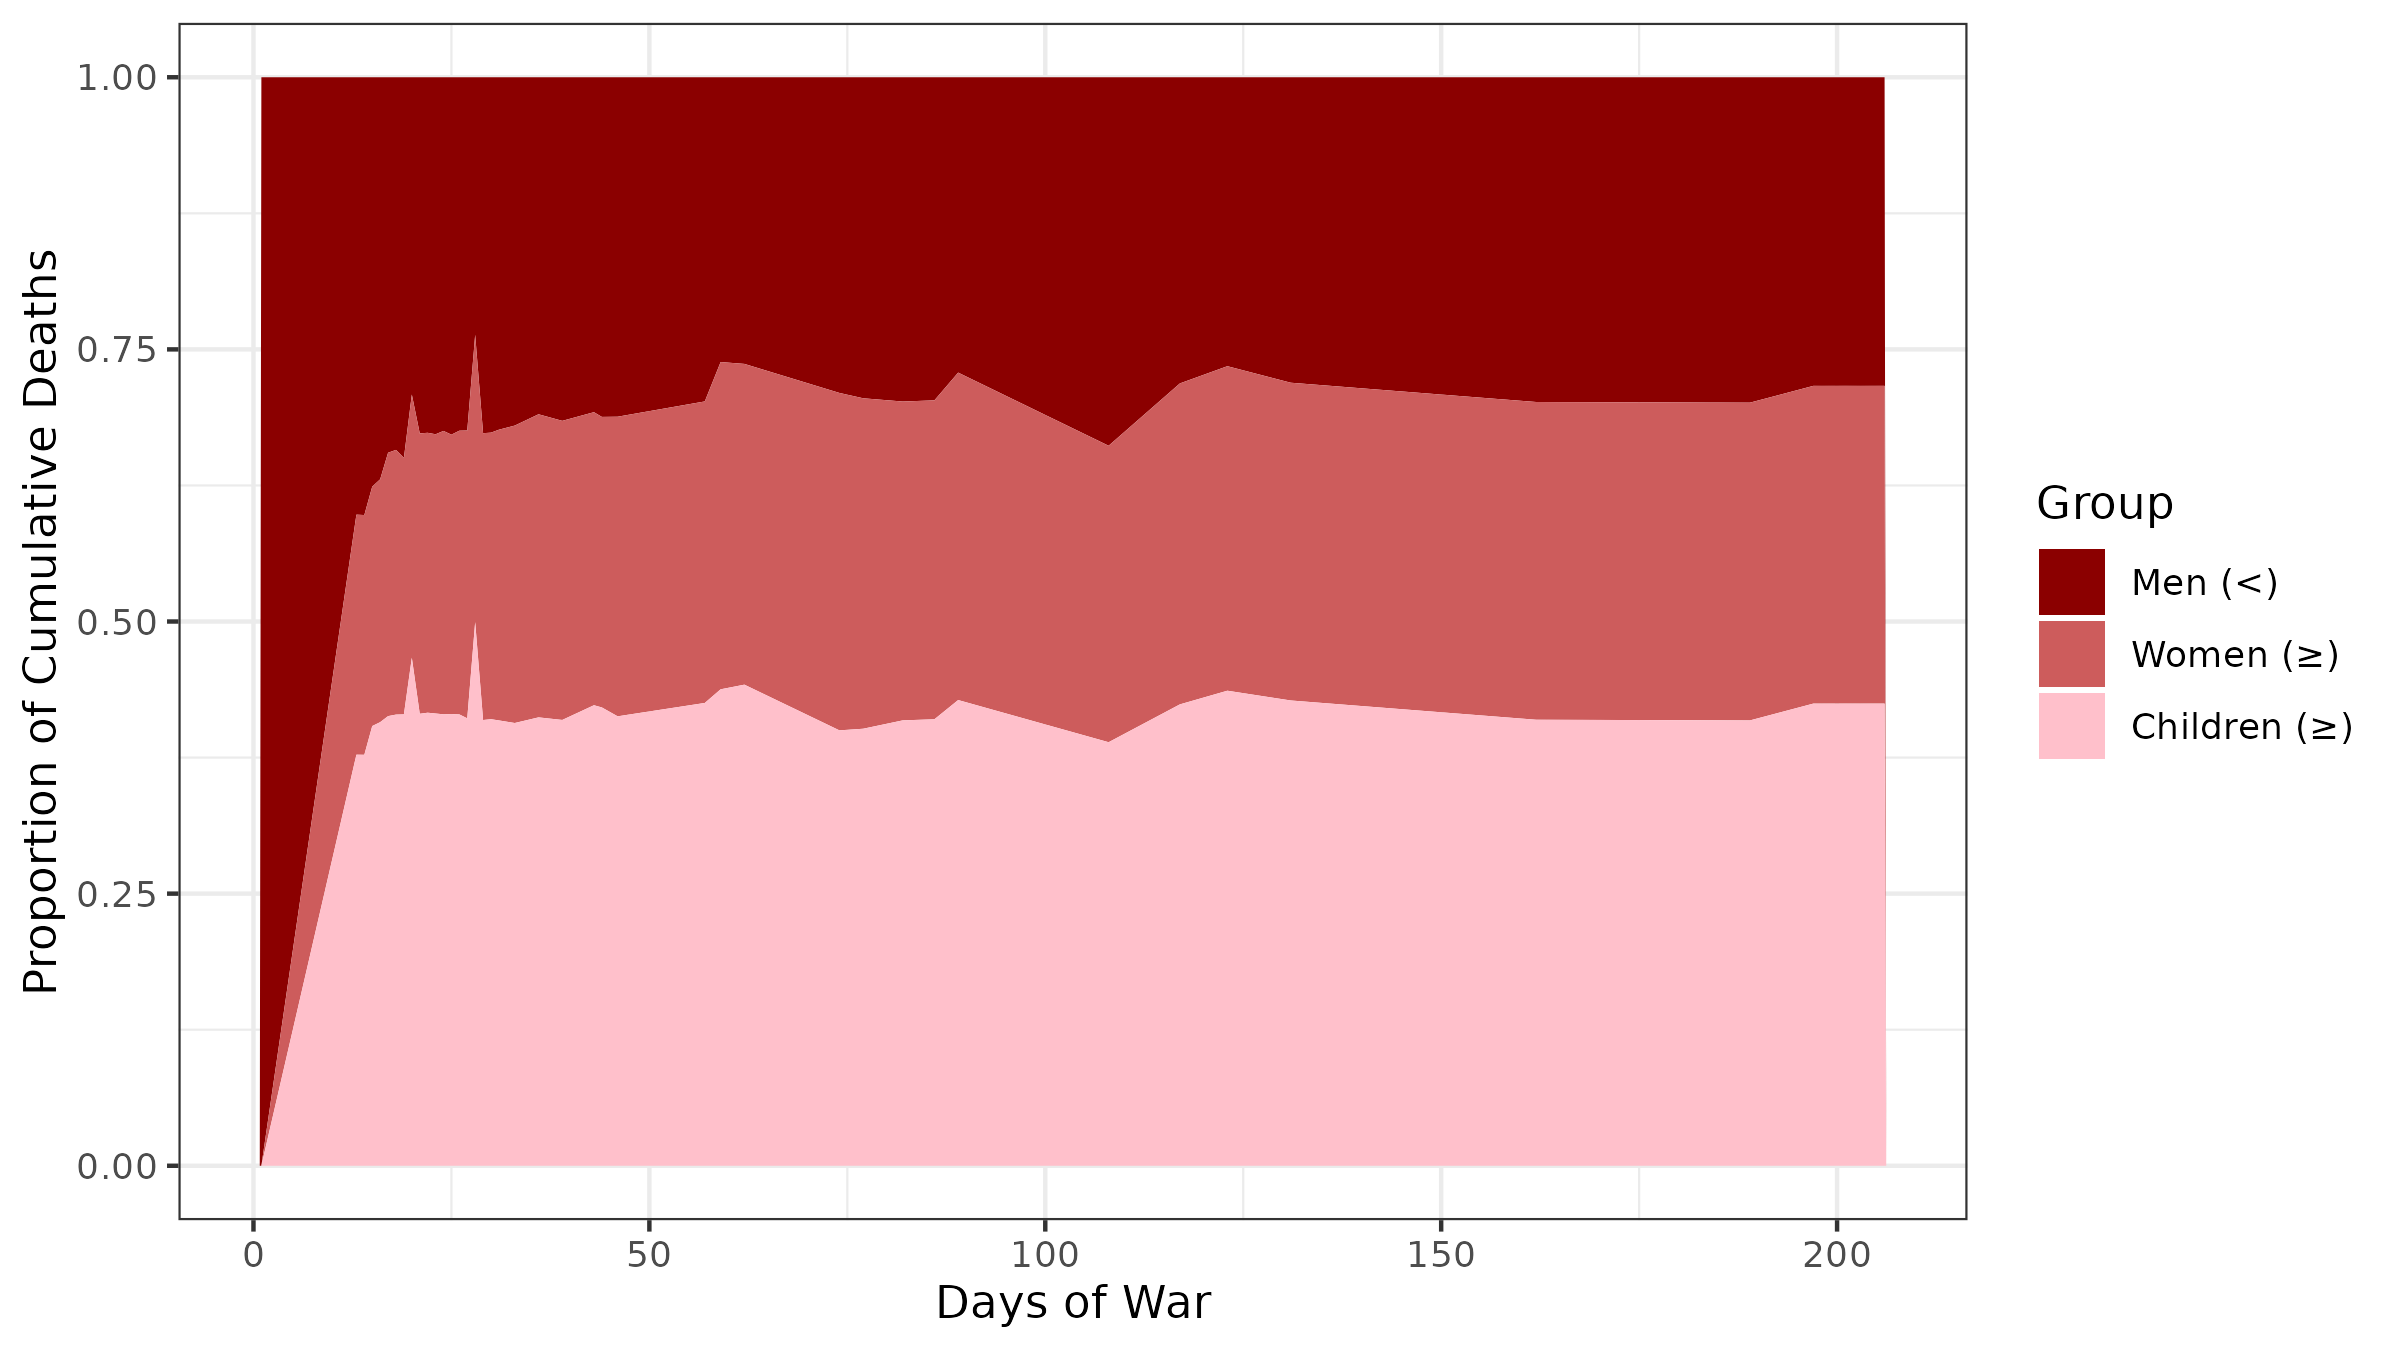
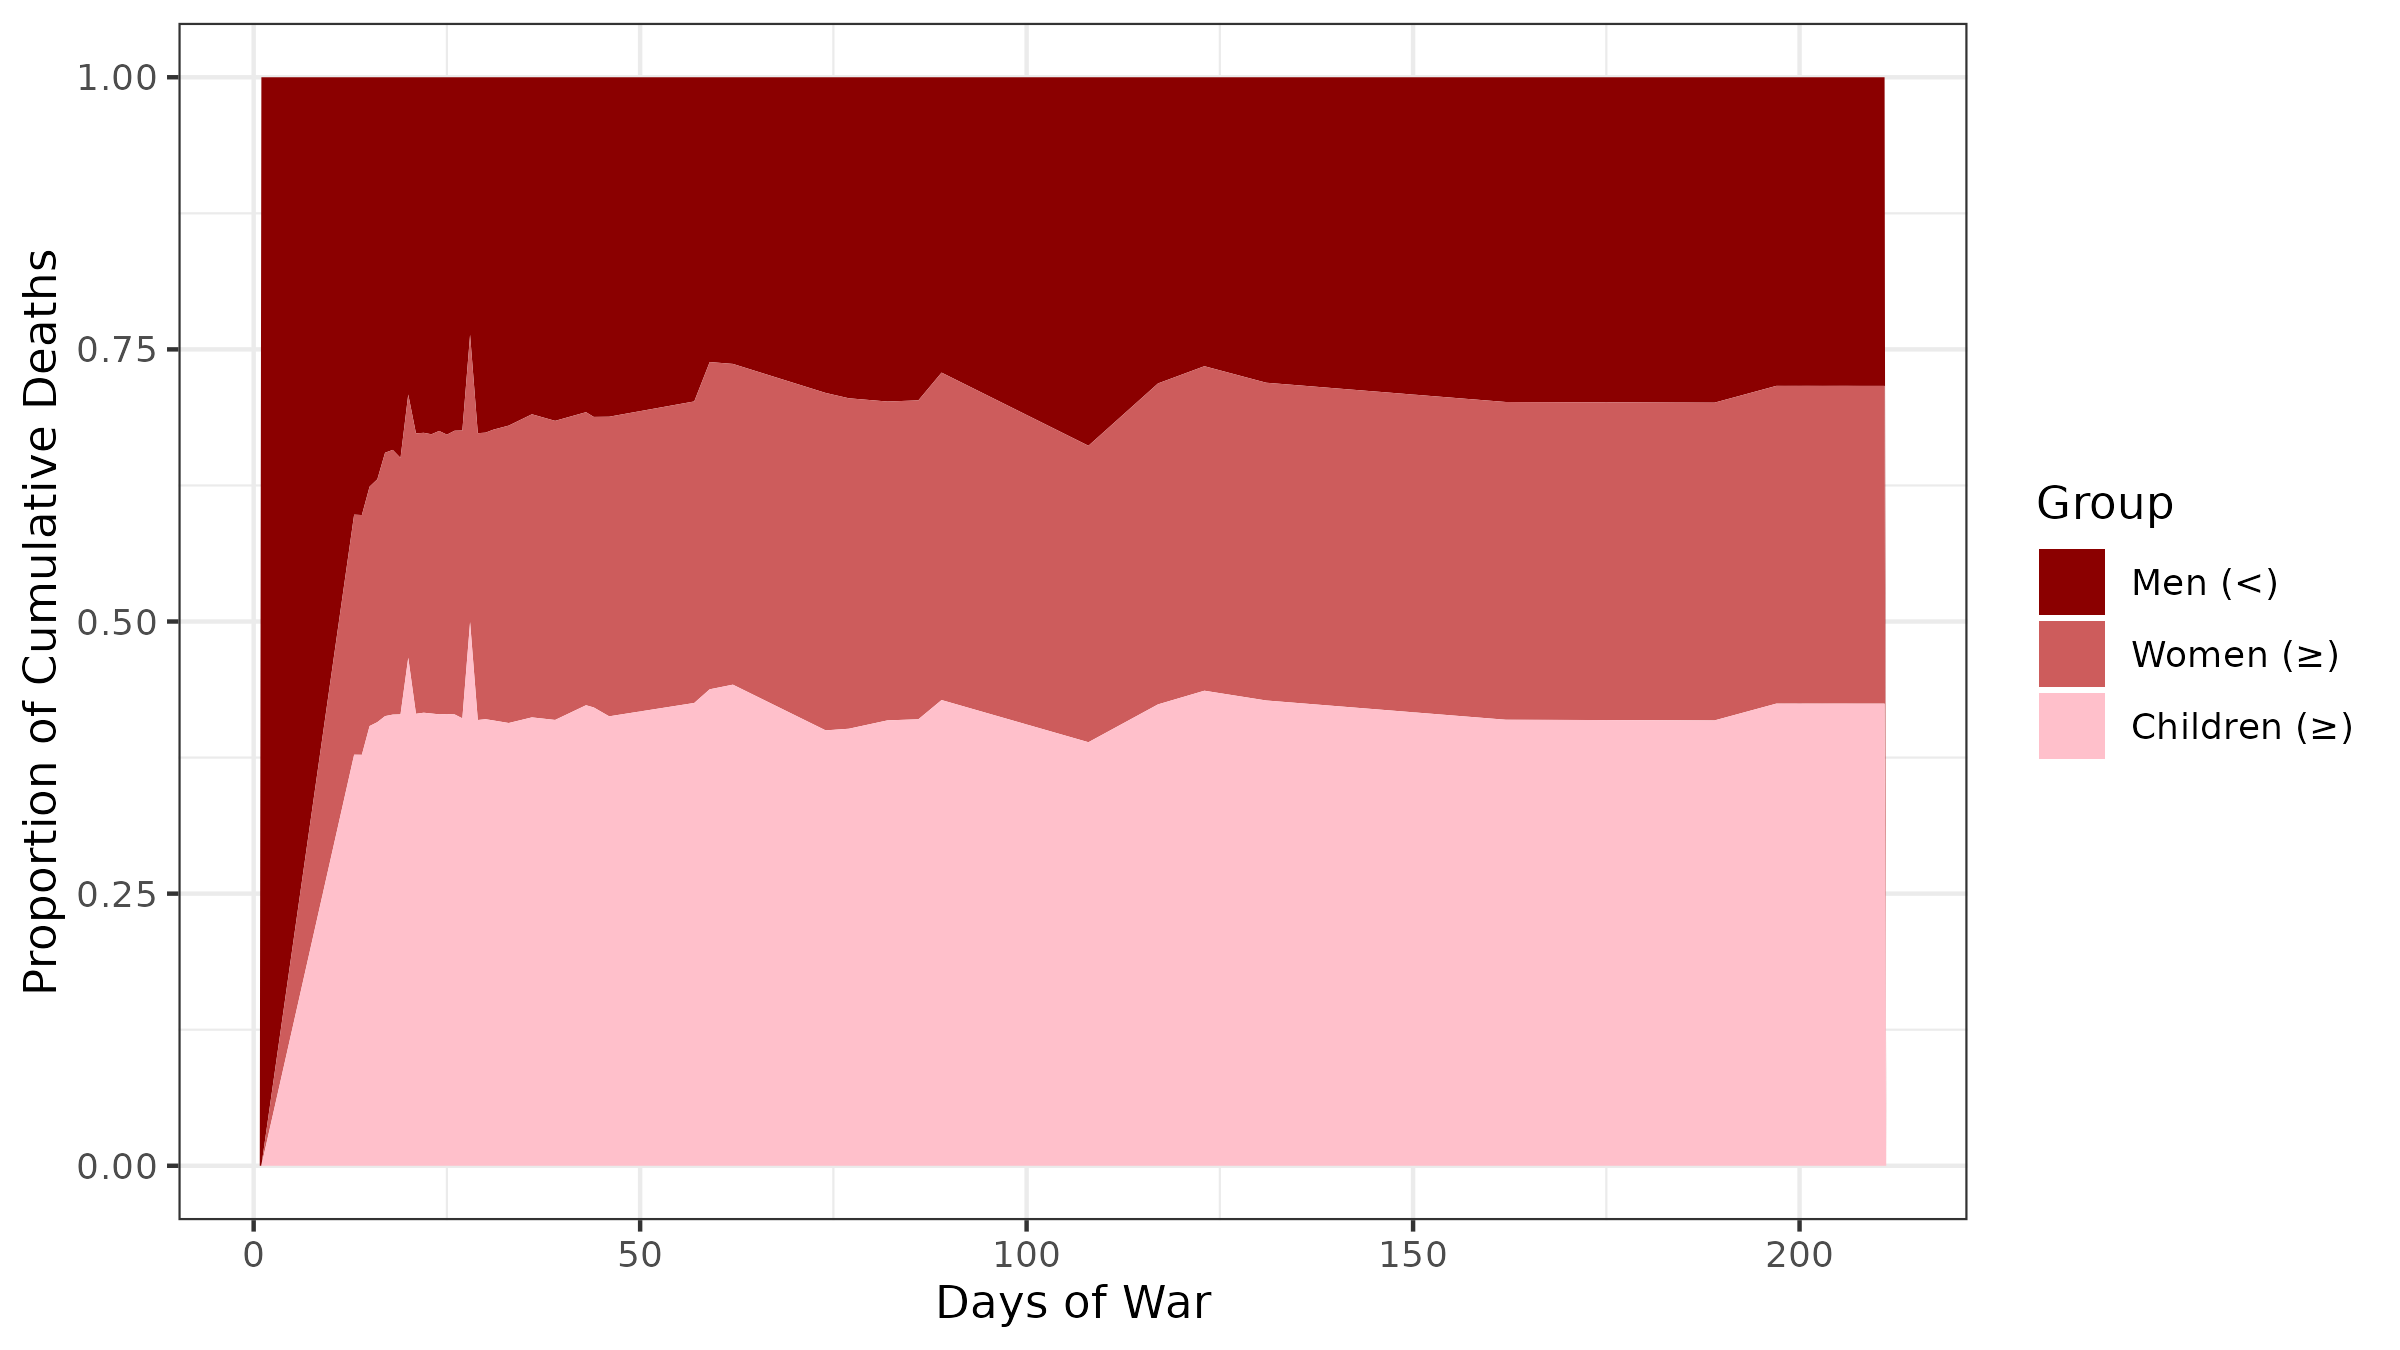
Data updated 06 May 2024

diff --git a/README.md b/README.md
@@ -1,5 +1,5 @@
 Tracking mortality in Palestine following Israel's assault against Gaza (2023-2024). 
-*Last updated 1 May 2024*
+*Last updated 6 May 2024*
 
 # Gaza Conflict Tracker
 
